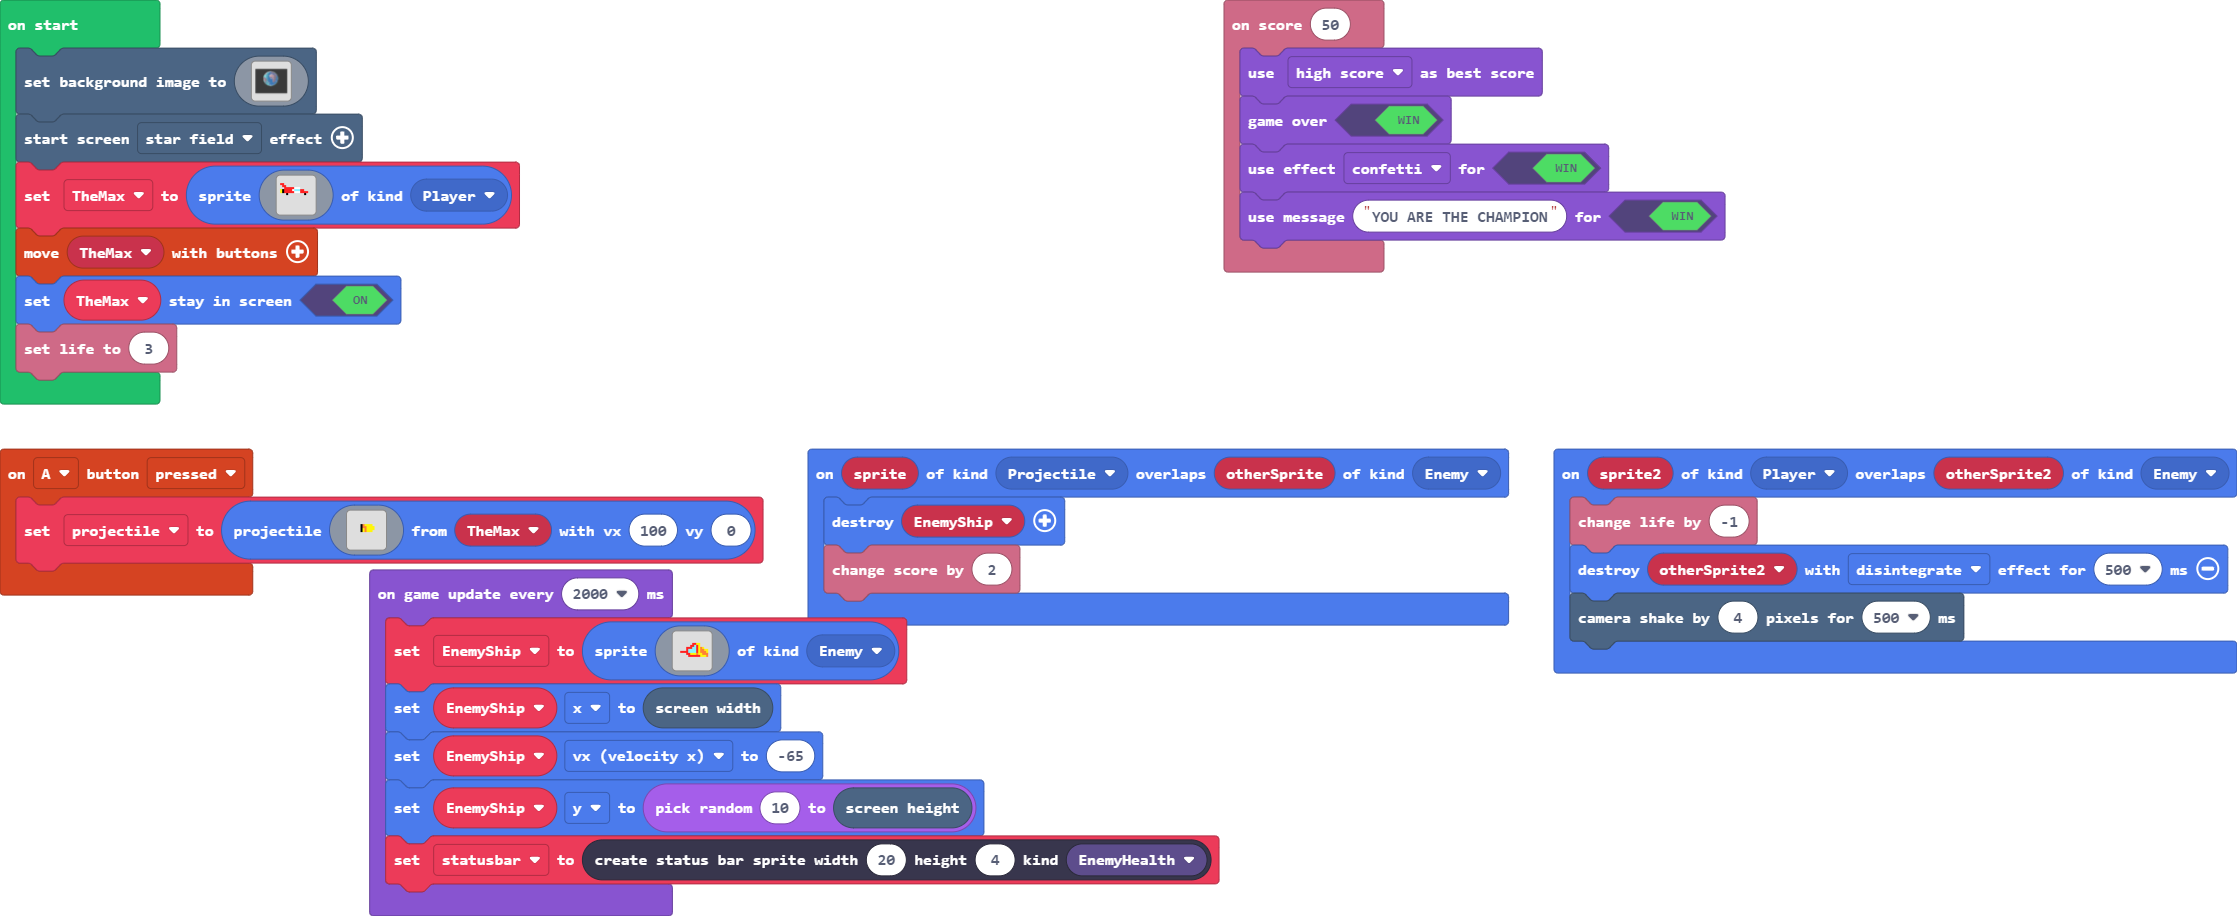
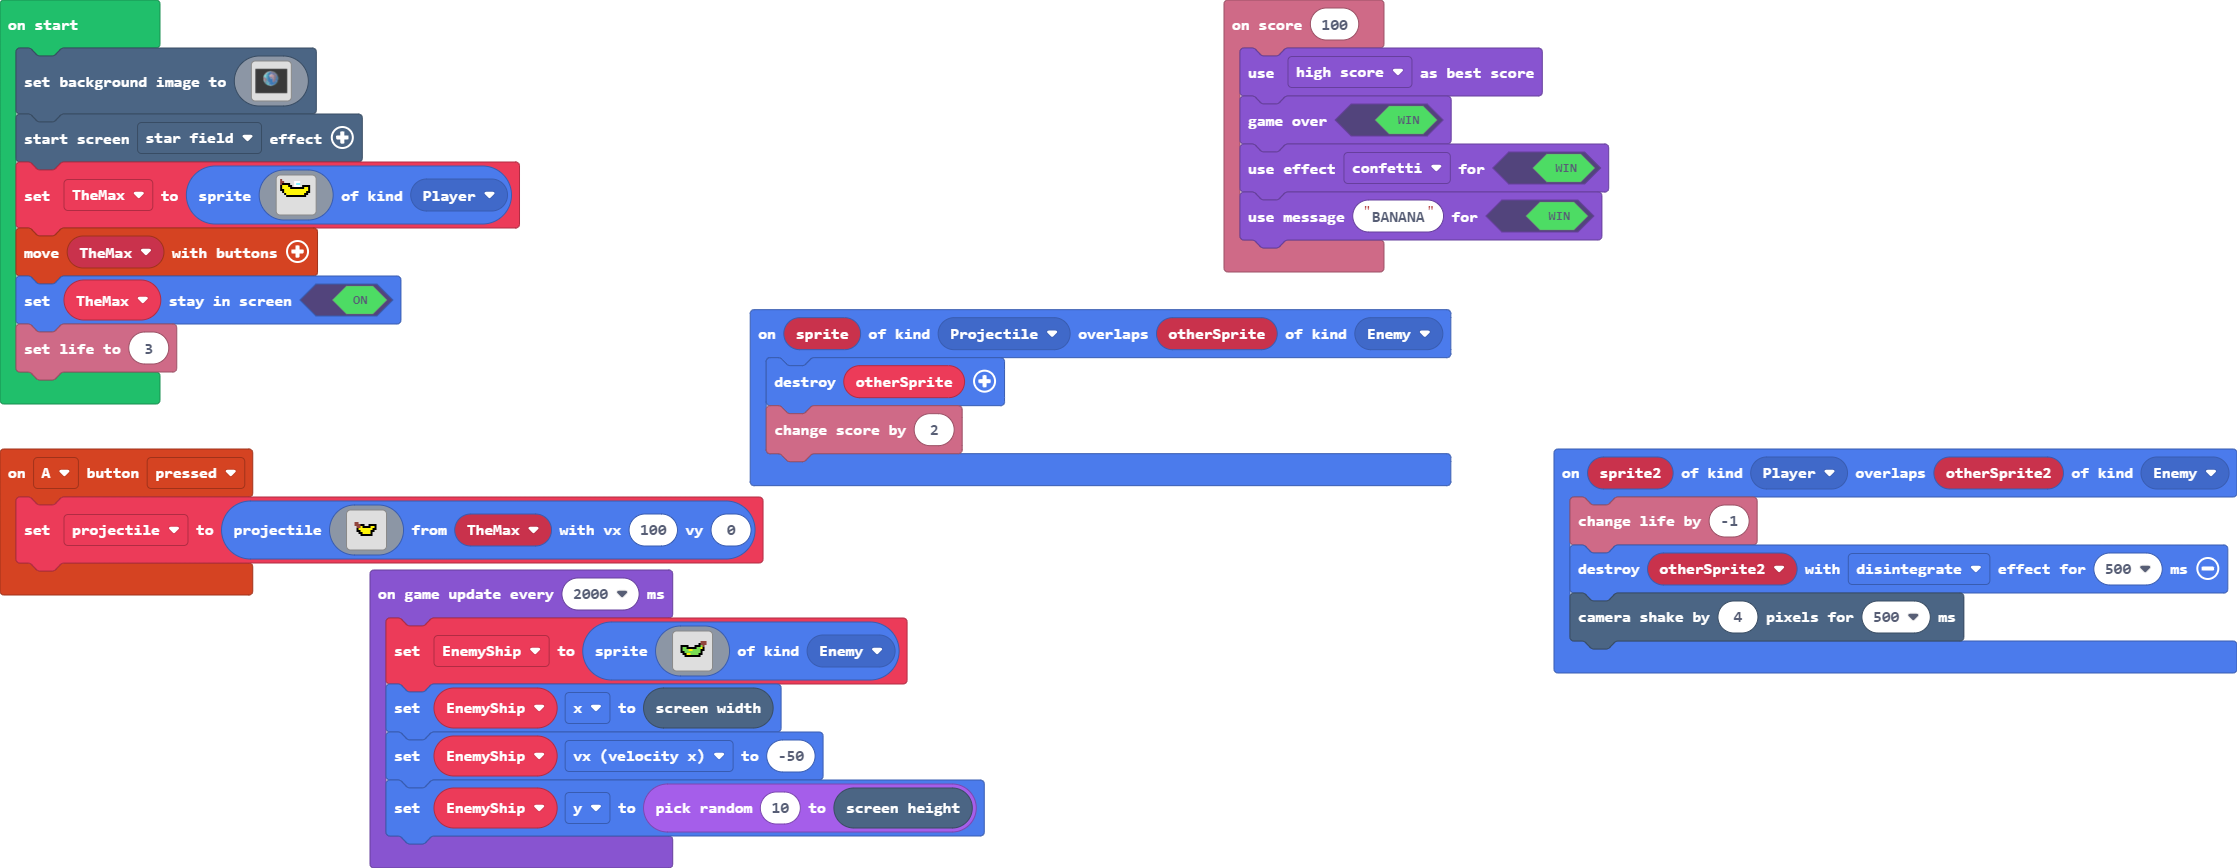
Update pxt.json, main.blocks, main.ts, images.g.jres, images.g.ts

Changed region(s): [[0.0, 0.0, 1.0, 0.9954]]

diff --git a/images.g.ts b/images.g.ts
@@ -5,15 +5,15 @@ namespace myImages {
         switch(helpers.stringTrim(name)) {
             case "image1":
             case "Form1":return img`
-. . . . . . . . . . . . . . . . 
-. . . . . . . . . . . . . . . . 
-2 2 . . . . . . . . . . . . . . 
-. 2 2 . . . . . . . . . . . . . 
-. . 2 2 2 2 2 1 1 1 . . . . . . 
-5 f 2 2 2 2 1 9 9 9 2 2 . . . . 
-5 f 2 2 2 2 2 1 1 1 2 2 2 2 . . 
-. . . f . . . . . . . . f . . . 
-. . . . . . . . . . . . . . . . 
+e . . . . . . . . . . . . . . . 
+e e . . . . . 1 1 1 . . . . . . 
+e f f f f . . 1 9 9 . . . . . . 
+f 5 5 5 f f . 1 1 1 . f f f f . 
+f 5 5 5 5 f f f f f f f 5 5 f . 
+f f 5 5 5 5 5 5 5 5 5 5 5 5 f . 
+. f 5 5 5 5 5 5 5 5 5 5 5 f f . 
+. . f 5 5 5 5 5 5 5 5 5 f f . . 
+. . . f f f f f f f f f f . . . 
 . . . . . . . . . . . . . . . . 
 . . . . . . . . . . . . . . . . 
 . . . . . . . . . . . . . . . . 
@@ -28,13 +28,13 @@ namespace myImages {
 . . . . . . . . . . . . . . . . 
 . . . . . . . . . . . . . . . . 
 . . . . . . . . . . . . . . . . 
-. . . . . . . . . . . . . . . . 
-. . . . . f 4 5 5 5 5 . . . . . 
-. . . . . f 4 4 5 5 5 5 . . . . 
-. . . . . f 5 4 5 5 5 5 . . . . 
-. . . . . f 5 4 5 5 5 . . . . . 
-. . . . . . . . . . . . . . . . 
-. . . . . . . . . . . . . . . . 
+. . e e . . . . . . . . . . . . 
+. . e e e f f . . f f f f . . . 
+. . . e e 5 f f f f 5 5 f . . . 
+. . . f 5 5 5 5 5 5 5 f f . . . 
+. . . f f 5 5 5 5 5 f f . . . . 
+. . . . f f 5 5 5 5 f . . . . . 
+. . . . . f f f f f f . . . . . 
 . . . . . . . . . . . . . . . . 
 . . . . . . . . . . . . . . . . 
 . . . . . . . . . . . . . . . . 
@@ -46,14 +46,14 @@ namespace myImages {
 . . . . . . . . . . . . . . . . 
 . . . . . . . . . . . . . . . . 
 . . . . . . . . . . . . . . . . 
-. . . . . . . . . . . . . . . . 
-. . . . . . . . 2 2 5 5 . . . . 
-. . . . . . . 2 2 9 2 5 . . . . 
-. . . . . 2 2 2 9 9 2 5 4 5 . . 
-. . . . . 2 9 9 9 9 2 5 4 4 5 5 
-. . 2 2 2 2 9 9 9 9 2 5 4 4 4 5 
-. . . . . 2 2 5 5 5 4 5 5 4 4 4 
-. . . . . . 2 2 2 2 2 2 5 5 5 4 
+. . . . . . . . . . . . e e e . 
+. . . . . . . . . . . f e e e . 
+. . f f f f . . . f f f 7 e . . 
+. . f 7 7 f f f f f 7 7 5 f . . 
+. . f 7 7 7 5 5 7 7 7 7 f f . . 
+. . f f 7 7 7 7 7 7 7 7 f . . . 
+. . . f f 5 5 7 7 7 7 f f . . . 
+. . . . f f f f f f f f . . . . 
 . . . . . . . . . . . . . . . . 
 . . . . . . . . . . . . . . . . 
 . . . . . . . . . . . . . . . . 

diff --git a/main.ts b/main.ts
@@ -6,17 +6,16 @@ sprites.onOverlap(SpriteKind.Player, SpriteKind.Enemy, function (sprite2, otherS
     sprites.destroy(otherSprite2, effects.disintegrate, 500)
     scene.cameraShake(4, 500)
 })
-info.onScore(50, function () {
+info.onScore(100, function () {
     game.setGameOverScoringType(game.ScoringType.HighScore)
     game.gameOver(true)
     game.setGameOverEffect(true, effects.confetti)
-    game.setGameOverMessage(true, "YOU ARE THE CHAMPION")
+    game.setGameOverMessage(true, "BANANA")
 })
 sprites.onOverlap(SpriteKind.Projectile, SpriteKind.Enemy, function (sprite, otherSprite) {
-    sprites.destroy(EnemyShip)
+    sprites.destroy(otherSprite)
     info.changeScoreBy(2)
 })
-let statusbar: StatusBarSprite = null
 let EnemyShip: Sprite = null
 let projectile: Sprite = null
 let TheMax: Sprite = null
@@ -150,7 +149,6 @@ info.setLife(3)
 game.onUpdateInterval(2000, function () {
     EnemyShip = sprites.create(assets.image`EnemyShip`, SpriteKind.Enemy)
     EnemyShip.x = scene.screenWidth()
-    EnemyShip.vx = -65
+    EnemyShip.vx = -50
     EnemyShip.y = randint(10, scene.screenHeight())
-    statusbar = statusbars.create(20, 4, StatusBarKind.EnemyHealth)
 })
